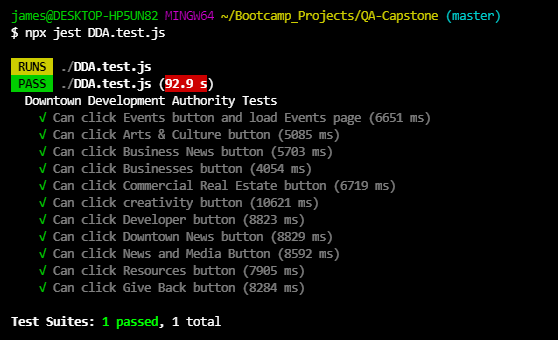
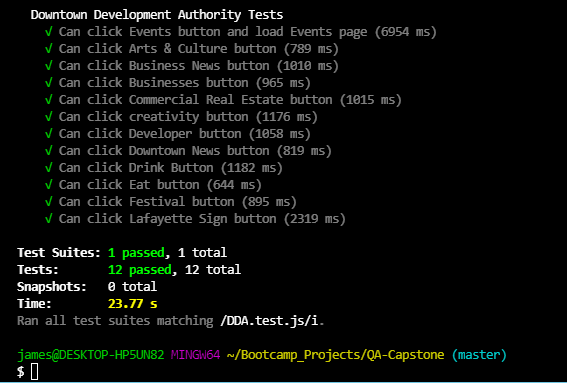
Update

Changed region(s): [[0.0, 0.0294, 0.914, 0.8824], [0.0, 0.9118, 0.914, 1.0]]

diff --git a/DDA.test.js b/DDA.test.js
@@ -10,9 +10,10 @@ const testNames = require('./pageObjects/testNames')
 
 beforeAll(async () => {
     await driver.get("https://downtownlafayette.org")
-   
-})
 
+//afterAll(async () => {
+   // await driver.quit()
+})
 
 describe ("Downtown Development Authority Tests", () => {
 
@@ -22,12 +23,12 @@ describe ("Downtown Development Authority Tests", () => {
 
     it("Can click Events button and load Events page", async () => {
 
-        let eventsButton = await driver.findElement(By.xpath("/html/body/div[1]/div[1]/header/div/div[2]/nav/ul/li[1]/a"))
+        let eventsButton = await driver.findElement(By.css('#categories-5 > ul > li.cat-item.cat-item-73 > a')) 
         await eventsButton.click()
 
-        let eventsCheck = await driver.findElement(By.css("#et-boc > div > div > div.et_pb_section.et_pb_section_1.colorblock.et_pb_with_background.et_section_regular > div > div > div > div > h1")).getText()
+        let eventsCheck = await driver.findElement(By.css("#post-228758 > h2 > a")).getText()
 
-        expect(eventsCheck).toContain("Events")
+        expect(eventsCheck).toContain("Merry")
     })
 
     /////////////////
@@ -100,47 +101,47 @@ describe ("Downtown Development Authority Tests", () => {
         await downtownnewsButton.click()
     })
 
+    ///////////////////////
+    //// Drink button
+    //////////////////////
+
+    it("Can click Drink Button", async () => {
+
+        let drinkButton = await driver.findElement(By.css("#categories-6 > ul > li.cat-item.cat-item-13 > a"))
+        await drinkButton.click()
+
+    })
+
+    ///////////////////////
+    //// Eat button
+    //////////////////////
+
+    it("Can click Eat button", async () => {
+
+        let eatButton = await driver.findElement(By.css("#categories-6 > ul > li.cat-item.cat-item-12 > a"))
+        await eatButton.click()
+        
+    })
+
+    ///////////////////////
+    //// Festival button
+    //////////////////////
+
+    it("Can click Festival button", async () => {
+
+        let festivalButton = await driver.findElement(By.css("#categories-6 > ul > li.cat-item.cat-item-60 > a"))
+        await festivalButton.click()
+    })
+
+    ////////////////////////////
+    //// Lafayette sign  button
     ///////////////////////////
-    //// News and Media button
-    //////////////////////////
 
-    it("Can click News and Media Button", async () => {
-
-        let mediaButton = await driver.findElement(By.css("#menu-item-225025 > a"))
-        await mediaButton.click()
-
-    })
-
-    ///////////////////////
-    //// Resources button
-    //////////////////////
-
-    it("Can click Resources button", async () => {
-
-        let resourcesButton = await driver.findElement(By.css("#menu-item-225025 > a"))
-        await resourcesButton.click()
+    it("Can click Lafayette Sign button", async () => {
         
+        let signButton = await driver.findElement(By.css("#categories-6 > ul > li.cat-item.cat-item-20 > a"))
+        await signButton.click()
     })
-
-    ///////////////////////
-    //// Give Back button
-    //////////////////////
-
-    it("Can click Give Back button", async () => {
-
-        let giveButton = await driver.findElement(By.css("#menu-item-227103 > a"))
-        await giveButton.click()
-    })
-
-    ///////////////////
-    //// Shop button
-    //////////////////
-
-  //  it("Can click Shop button", async () => {
-        
- //       let shopButton = await driver.findElement(By.css("#menu-item-226966 > a"))
- //       await shopButton.click()
- //   })
 
     /////////////////////////////
     //// Subscribe to Newsletter
@@ -156,5 +157,5 @@ describe ("Downtown Development Authority Tests", () => {
     //     await driver.findElement(By.id("mce-LNAME")).click()
     //     await driver.findElement(By.id("mce-LNAME")).sendKeys("Tester")
     // })
-
+   
 }) //npx jest DDA.test.js

diff --git a/pageObject-LPSO.test.js b/pageObject-LPSO.test.js
@@ -4,6 +4,8 @@ const  LPSO  = require("./pageObjects/extend-LPSOpage")
 const driver = new Builder().withCapabilities(Capabilities.chrome()).build()
 const myPage = new LPSO (driver, 'https://www.lafayettesheriff.com/')
 
+jest.setTimeout(10000)
+
 test('Searching LPSO Page', async ()=> {
     await myPage.navigate()
     await myPage.doSearch('crime mapping')

diff --git a/LPSO.test.js b/LPSO.test.js
@@ -11,9 +11,9 @@ beforeAll(async () => {
    
 })
 
-// afterAll(async() => {
-//     await driver.quit()
-//})
+ afterAll(async() => {
+     await driver.quit()
+})
 describe ("Lafayette Sheriff Tests", () => {
 
     ////////////////////////////
